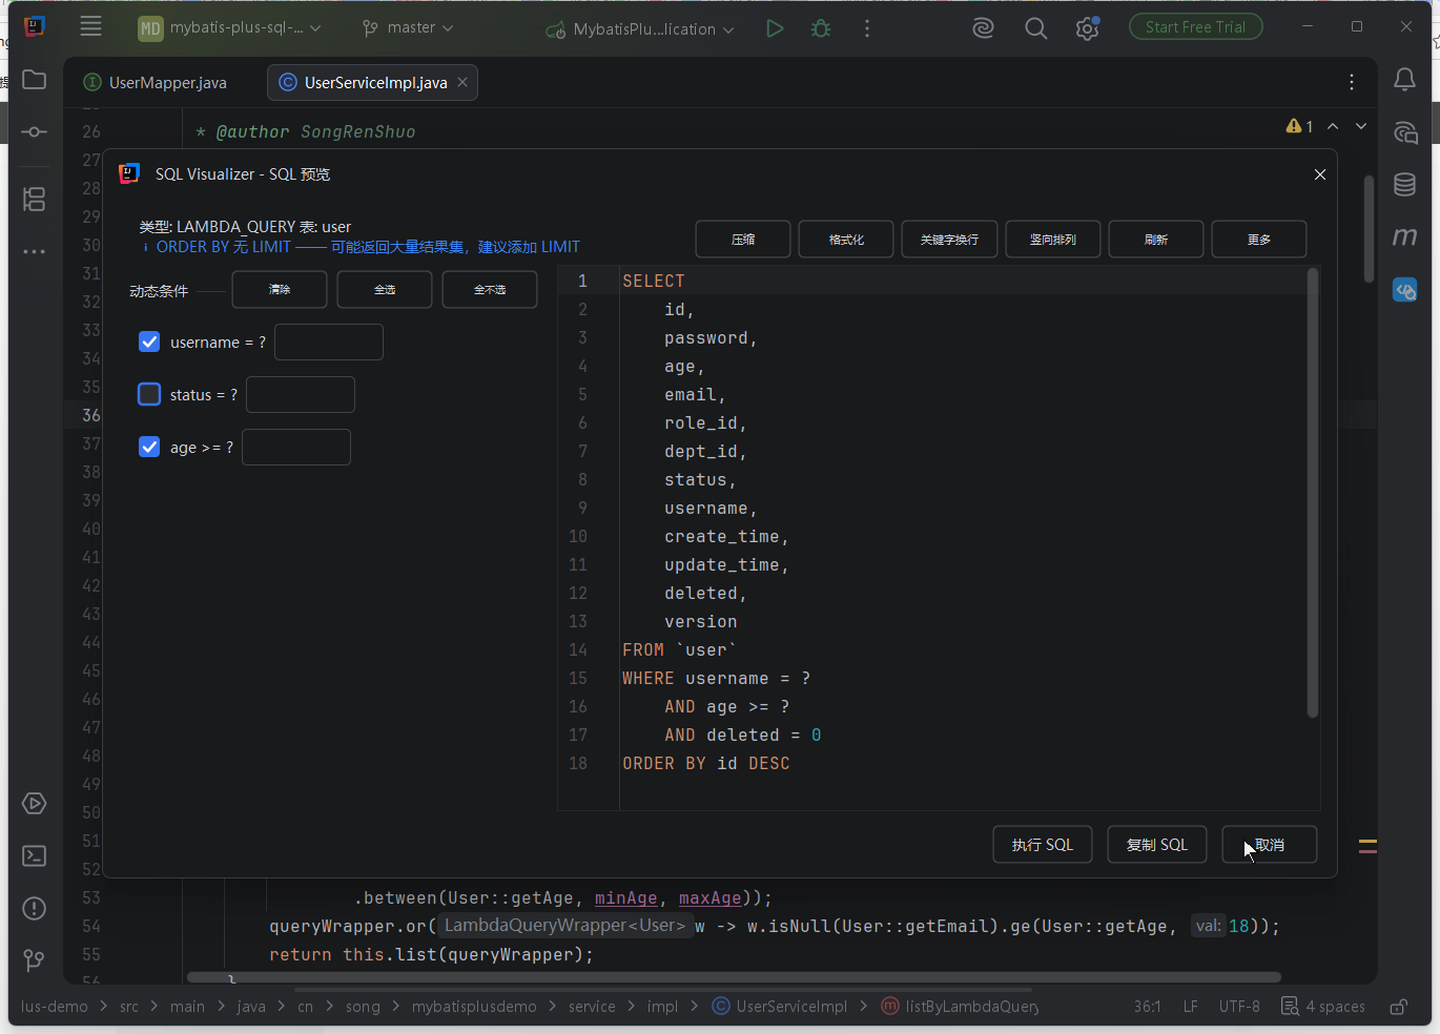
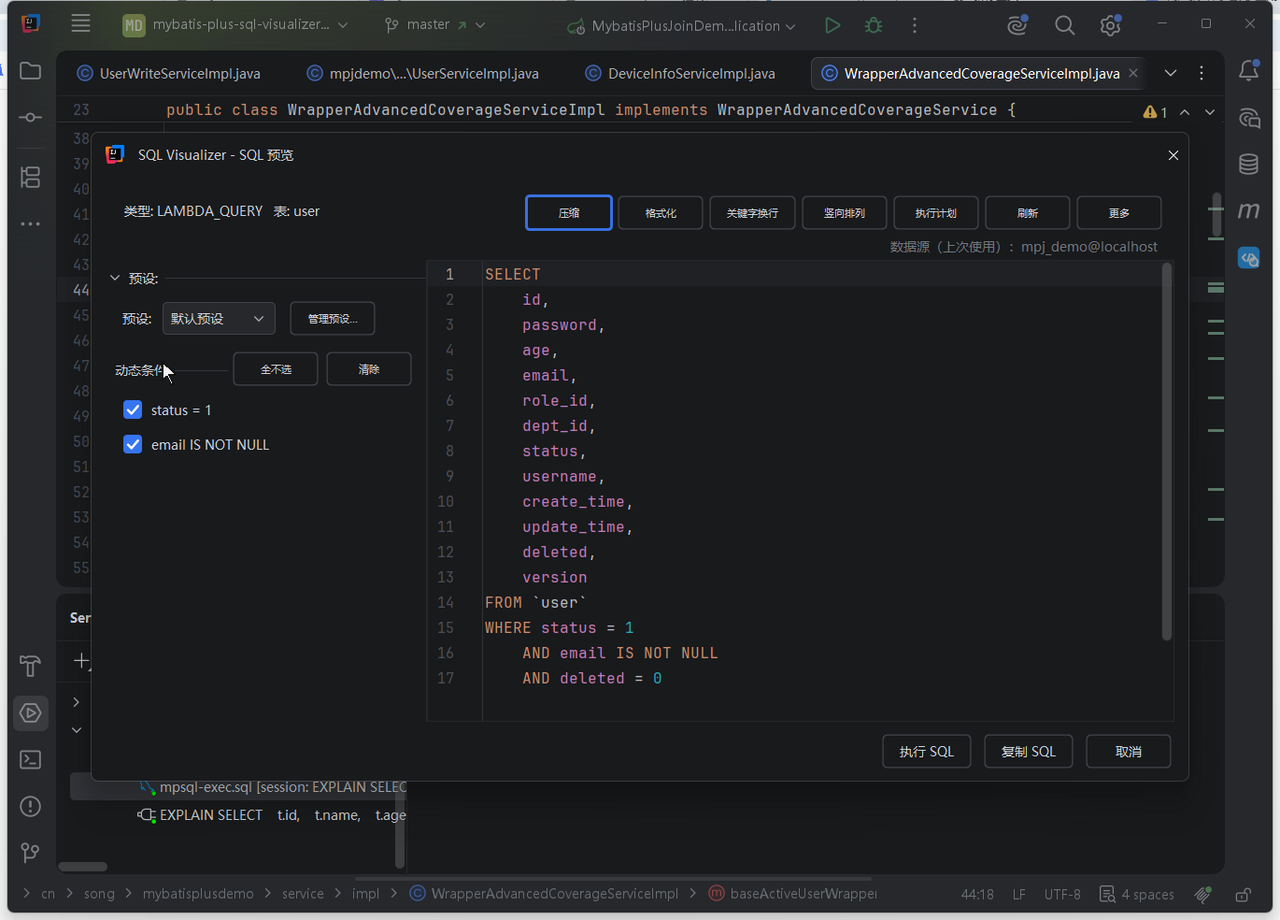
docs(demo): wrapper-preview.gif 重录（含「预设」行的当前面板）——1280×920 / 5.7s
旧片两处过时消除：预览面板没有「预设」行（现面板有 预设/默认预设/管理预设...）；
标题栏是 Start Free Trial 试用态（沙盒已激活，现为工程名）。
素材 WrapperAdvancedCoverageServiceImpl#baseActiveUserWrapper（eq + isNotNull，
与文档快速开始代码块同形，User 为 @TableName("user") 普通写法 → 表名走 MySQL 反引号）。
入镜：链上静止一拍 → Alt+Shift+Q → SQL 展开 → 点开「预设」行 → 收尾。
尺寸按 A 类口径统一为 1280×920（旧 1440×1034），poster 同步；宽高比几乎一致，
首页卡片无版式位移。引用面实为 6 处（4 markdown + 首页 DocsShowcase/FeatureAlternate），
同名替换故页面零改动。

diff --git a/docs/开发计划/20261008-1106-演示资产缺口全量盘点与录制计划-开发计划.md b/docs/开发计划/20261008-1106-演示资产缺口全量盘点与录制计划-开发计划.md
@@ -32,7 +32,7 @@
 
 | 素材 | 尺寸/体积 | 当前落点 |
 |------|-----------|----------|
-| `wrapper-preview.gif/.png` | 1440×1034 / 1.6MB | wrapper-preview 页 hero + 本站首页模块 1 + getting-started「第一个预览」 |
+| `wrapper-preview.gif/.png` | **1280×920 / 0.7MB / 5.7s（20261012 重录）** | wrapper-preview 页 hero + 本站首页（DocsShowcase / FeatureAlternate）+ getting-started「第一个预览」——**共 6 处引用**（4 处 markdown + 2 处首页组件） |
 | `sql-log.gif/.png` | 1280×920 / 828KB | sql-log 页 hero + 本站首页模块 2 |
 | `sql-log-focus.gif/.png` | 1280×920 / 607KB | sql-log「聚焦页签」 |
 | `sql-to-java.gif/.png` | 1280×920 / 334KB | sql-to-java 页 hero + 本站首页模块 3 |
@@ -484,14 +484,14 @@
 ### 11.6 批次 5 待办清单（建议顺序）
 
 1. **待做（需 UI）** 重拍 `settings.png`（设置主页面全貌）→ 替换中英 configuration 首图。
-2. **待做（需 UI）** 重录 `wrapper-preview.gif`（含「预设」行的当前面板）→ 替换 features/wrapper-preview hero + getting-started 演示（4 处引用一次换完）。
+2. **已完成（20261012）** 重录 `wrapper-preview.gif`（含「预设」行的当前面板）→ 已同名替换 features/wrapper-preview hero + getting-started + 首页两组件（**实为 6 处引用**，同名替换一次生效）。
 3. ✅ **已完成（2026-10-12，纯文本）** 设置表补 4 类控件进中英 configuration——实际补了 6 行（分页模拟 2 项 + JdbcTemplate + 数据权限 2 项 + 结构化 EXPLAIN），文案与默认值取自插件 bundle / `PluginSettings`。提交 `a2bc245`。
 4. ✅ **已完成（同上）** getting-started 中英第一步改写：gutter 图标为首选入口 + 「光标须压 token、链内行无图标」提示块。
 5. ✅ **已完成（同上）** FAQ 中英各补 5 条（分页 COUNT 来源 / 数据权限影响 / JdbcTemplate 字符串 SQL / 结构化 EXPLAIN 默认走控制台 / 参数预设与召回）。
 6. 每步完成后 `npm run build` + dist 逐项 grep 核验；**全部完成再统一部署**（未部署前不对外）。第 3~5 步已按此核验通过（含 en 侧数字标题锚点下划线前缀修正）。
 
 - **2026-10-12 批次 5 进度：不需要 UI 的三项已做完（`a2bc245`，未部署）**。①设置表补 6 行（中英）：模拟分页拦截器（COUNT 查询预览，默认开）、附分页 COUNT 查询预览（默认开）、启用 JdbcTemplate SQL 字符串预览（默认开）、显示 DataPermissionInterceptor 运行时差异提示（默认关）、数据权限模拟条件（默认空）、预览面板内结构化渲染 EXPLAIN（默认关，实验特性）——**文案与默认值逐条取自插件 bundle 与 `PluginSettings.kt`，不是凭印象写的**；②getting-started 中英第一步改写（gutter 图标为首选入口 + tip 说明「光标须压 token、停在行首缩进只弹通知、链内 `.eq/.ge` 行按设计无图标」）；③FAQ 中英各补 5 条（分页 COUNT 来源 / 数据权限怎么预览 / JdbcTemplate 字符串 SQL / 结构化 EXPLAIN 为何默认走控制台 / 参数预设与召回）。`npm run build` 通过，dist 逐项 grep 核过（设置表 6 行 ×2、FAQ 5 条 ×2、getting-started 提示 ×2 全在场）。**顺带修一处我自己引入的锚点坑**：en 侧「11-Dialect Pagination」的实际 id 是 `_11-dialect-pagination`（VitePress 对数字开头标题加下划线前缀），链接写成 `#11-…` 会是死锚，已按 dist 实测 id 改正。
-  **批次 5 剩余两项需 UI**：重拍 `settings.png`（设置主页面全貌，替换中英 configuration 首图）、重录 `wrapper-preview.gif`（含「预设」行的当前面板，替换 features hero + getting-started 共 4 处引用）——与 A11 重录同批做，都要占沙盒。
+  **批次 5 两项需 UI**：重录 `wrapper-preview.gif` **已于 20261012 完成**（见文末记录）；重拍 `settings.png`（设置主页面全貌，替换中英 configuration 首图）**仍待做**。
 
 - **2026-10-12 B4 返工（用户反馈）：口径修正为「两条路线」+ 视觉重做**。用户指出「comparison 页写的是两条路线的定位差异，图却是三条」。**核证结论＝两条路线才对**，三处独立证据一致：①`features/sql-log.md:22` 的小节标题即「两种捕获通道」，表内两行＝增强捕获（默认，推荐）/ 控制台捕获（回落），并写明「条目来源有两种，进入同一列表，展示与操作完全一致」；②`guide/configuration.md` 的增强捕获设置行自述「字节码增强捕获通道……失败自动回落控制台捕获；停止监听时联动停掉应用内采集」；③插件 Marketplace 描述把「运行期捕获（默认开启）」写成一个分组，控制台日志作为该组内回落通道，与「编码期预览」并列。即：**路线 2 条（静态预览 / 日志还原），通道 2 条挂在第二条路线下**；旧图把「运行期捕获」的两条通道提成了并列路线，才与标题打架（按「取数手段」数确实是三种，但插件文档与描述统一用「通道」这个词）。**重做内容**：`public/demo/comparison-routes.svg` 改为「两条路线（第 2 条内含 增强捕获=默认 / 控制台还原=回落 两条通道）→ 统一出口 → 什么时候用」三段式；视觉按大厂图风格重做——8pt 网格与统一圆角、中性色底 + 单一强调蓝 + 路线语义浅底（蓝＝静态 / 紫＝日志）、发丝边框 + 极淡投影、层级靠字号字重而非层层套框、右侧三卡底边与左栏对齐；中英 alt 同步改为两条路线口径（旧 alt 自称「三条取数路线」，与标题直接矛盾）。渲染自查：Chrome headless（须独立 `--user-data-dir`，否则与在跑的 Chrome 冲突静默失败）出 PNG 目视核对两轮，第二轮回正右列三卡底边。`npm run build` 通过；dist 核验中英 alt 均已更新且旧「三条」表述零残留、dist 内 SVG 与源文件 MD5 一致。**已知限制**：该 SVG 为中文标注、中英页共用（与既有 `mcp-overview.svg` 同一约定），且为浅色底图（暗色主题下呈亮色卡片，同既有约定）。
 
@@ -550,3 +550,11 @@
   **②原目标跑不通，已换目标（重要发现，非插件缺陷）**：原脚本目标 `UserServiceImpl#selectJoinList` 的主表是 `UserDO` → `@TableName("\"user\"")`（**达梦风格双引号**，同模块另有 `schema-dm.sql` 用 `CREATE TABLE "user"`；MySQL 版 `schema.sql` 用的是反引号）。MySQL 默认把 `"` 当字符串字面量 → EXPLAIN 必报 `[42000][1064] ... near '"user" t' at line 11`。**插件行为正确**：表名经 `SqlGenerator.renderTableName → dialect.quoteIfKeyword`，MySQL 方言本就用反引号（`Dialect.kt:373`），是注解里已带引号故原样透传。**未改 demo**——已部署的 A10（联表图）用的是同一目标，改了会与既有动图不一致；demo 的引号口径与 `schema-dm.sql` 配套，属跨方言取舍，**留给用户定夺**。
   **③脚本四处修正（已回填 `record/scene_a11_explain.py`，含踩坑注释）**：a) 打开文件必须**点结果行且扫掠**——Return 打不开「文件」搜索弹窗结果行（JBR 吞键），行位在 region y 350~366 浮动，原单点 (777,342) 落在窗口外导致弹窗关不掉、后续 `Ctrl+G` 与 "49" 被搜索框吃掉（抓帧显示 `mpjdemo/UserServiceImpl.java49`）；b) 落链 token 改用 `goto_col(110,18)`，`goto_text` 的 Ctrl+F 路径实测没命中（光标停 53:7，插件报「未在光标处找到可预览的 SQL 源」）；c) 数据源弹层行位实测 `mpj_demo@localhost` 在 screen **(1276,237)**，旧值 (860,251) 落在弹层之外会点到后面的预览面板；d) 收尾凝视避开结果网格的单元格/列头——悬停会弹 DataGrip 的列类型浮层（`partitions: MEDIUMTEXT` / `Switch to Table`），前两版末帧都留了气泡，第三版改指底部原生控制台与左侧面板空白才干净。
   **批次 3 至此 13/13 全部出片。**
+
+- **2026-10-12 批次 5：`wrapper-preview.gif` 重录完成（同名替换，6 处引用一次生效）**。旧片（2026-09-12 / 1440×1034 / 7.67s）两处过时已消除：①预览面板**没有「预设」行**（现面板有「预设 / 默认预设 / 管理预设...」）；②标题栏是 `Start Free Trial` 试用态（沙盒已激活，现为工程名）。新片 **1280×920 / 5.7s / 0.7MB**（按 A 类口径统一尺寸），poster 同步 1280×920——与旧 1440×1034 宽高比几乎一致（1.391 vs 1.393），首页卡片无版式位移。
+  **素材**：`WrapperAdvancedCoverageServiceImpl#baseActiveUserWrapper`——`Wrappers.<User>lambdaQuery().eq(User::getStatus, 1).isNotNull(User::getEmail)`，与文档「快速开始」代码块同形；`User` 是 `@TableName("user")` 普通写法 → 表名走 MySQL 反引号（`` `user` ``），逻辑删除 `AND deleted = 0` 正常注入。
+  **入镜流程**：编辑器链上静止一拍 → Alt+Shift+Q 唤起预览 → SQL 逐列展开 → **点开「预设」行**（展示新增的「默认预设 / 管理预设...」）→ 收尾。
+  **引用面**：`features/wrapper-preview.md`（hero）、`en/...`、`guide/getting-started.md`、`en/...` 共 4 处 markdown + 首页 `home/DocsShowcase.vue`（poster+gif）与 `home/FeatureAlternate.vue`（imageSrc+poster）2 处组件 = **6 处**（计划原记「4 处」，本轮实测勘正）。同名替换故页面零改动；`npm run build` 通过、dist 与源 MD5 一致、4 个页面命中。
+  **两个录制坑（已写进脚本注释）**：
+  ① **裸屏捕获下鼠标移动不产生像素变化**，会被 `assemble.py` 的静段裁剪吃掉——纯凝视型 take 只出 3.6s（首版实测）。要片子有长度必须有**真实 UI 变化**（本片靠预览弹出 + 预设行展开）；这也解释了为何 A11 能到 7.5s（EXPLAIN 结果表是真变化）。
+  ② **预设行展开态会跨预览保留**，take 前必须归一到「收起」，否则那一下点击反而把已展开的收起（首版末帧仍是收起态）。判据用条带灰度标准差，**阈值 22**——**别照搬「空白≈0」的直觉**：Islands Dark 主题下面板底色灰度均值仅 28，收起态本底噪声就有 13（阈值取 8 会误判成展开，归一化循环连点三次反而把状态弄反）。
